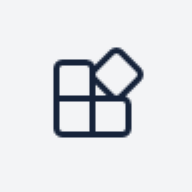
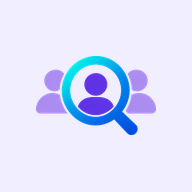
feat: Update agent branding and versioning; enhance deployment documentation

Changed region(s): [[0.1875, 0.2188, 0.8125, 0.7188]]

diff --git a/specs/tasks/todo.md b/specs/tasks/todo.md
@@ -1,6 +1,6 @@
 # Expert Finder demo checklist
 
-The baseline and Graph photo source/documentation are implemented locally. Expert availability is also implemented locally; its host acceptance remains pending. External acceptance remains pending. Checked tasks have local evidence below. Tasks needing real Workbench, tenant or dialog interaction remain unchecked until that acceptance is verified; their code can already be implemented. No automated test suites are being added.
+The baseline, Graph photos and expert availability are implemented locally. User-provided Copilot screenshots now confirm basic deployed invocation/rendering, profile images and an availability timeline in dark theme; broader external acceptance remains pending. Checked tasks have evidence below. Tasks needing additional Workbench, tenant or dialog interaction remain unchecked until those specific checks are verified; their code can already be implemented. No automated test suites are being added.
 
 ## Skill scoped mock data
 
@@ -129,3 +129,13 @@ The user approved the demo convention: Experts is in the tenant root. Selection 
 - Failed, canceled and uncertain attempts do not add confirmed booking records. Existing uncertain-write duplicate protection and error refresh remain intact. Mock mode, source selection, search, photos, contact actions, permissions and dependencies are unchanged; no unit tests or persistent storage were added.
 - npm run build exited 0 in an isolated temporary source copy using the workspace's installed dependencies, without TypeScript/lint errors or warnings. The existing Jest stage found zero tests. Both generated archives passed CRC checks and were copied to the app's usual teams/expert-finder.zip and sharepoint/solution/copilot-expert-finder.sppkg paths. Two initial builds in the app directory failed in Copilot staging while a separate heft start was active; the isolated build avoided the shared temp directory without stopping that server or changing build configuration.
 - README, the conference runbook and existing feature/global specs describe the local booking behavior. No live Graph calls, calendar writes, tenant changes or browser automation were performed. Actual immediate Busy rendering, persistence after stale-Graph Refresh/expert/mode changes, failure/uncertainty behavior and keyboard focus remain pending in Workbench/Copilot.
+
+
+### Agent icons and deployment retry (2026-11-04)
+
+- User-provided screenshots show a natural Copilot-agent prompt rendering the directory inline, three of five results with profile images, fullscreen cards in dark theme and a selected expert's availability timeline. This is observed deployed behavior, not an automated runtime check. New-branding publication, light theme, keyboard/focus, error paths and end-to-end meeting/Busy-refresh behavior in Copilot remain pending; the generic Add to Teams failure is not declared resolved.
+- Validated the user-replaced copilot/color.png (192 × 192 RGB PNG) and copilot/outline.png (32 × 32 RGBA PNG). Visual inspection confirms the intended color mark; outline inspection confirms 355 visible white pixels, 669 fully transparent pixels and transparent corners. The existing manifest already references both filenames. The React header logo is a separate asset.
+- Advanced the app version to 1.0.2 and the SPFx solution version to 1.0.0.2 without changing identities. Found and removed an obsolete tracked teams/expertfinder-agent.zip containing the same app ID at version 1.0.0.2 with default icons; the packager had embedded it alongside the current agent ZIP. A backup was retained outside the repository. Duplicate agent packages are a possible synchronization issue, not a proven explanation of the tenant's 400 response.
+- Final npm run build exited 0 in the actual project folder, without TypeScript/lint errors or warnings. The existing Jest stage found zero tests. Archive verification confirms exactly one embedded agent ZIP, app version 1.0.2 and icon bytes identical to the new source PNGs. No dependencies or permission requests were added.
+- Regenerated /private/tmp/expert-finder-inheritscloud-1.0.2.zip for the optional Teams Admin Center Upload file retry. It retains the release's app identity/version, definitions and new icons, replacing only the runtime MCP placeholder with the inheritscloud tenant/solution URL. All three manifests pass the installed Microsoft schema validator and both ZIP/sppkg integrity checks pass. The regular package retains its deploy-time placeholder for the standard SharePoint synchronization route. No tenant upload, synchronization, permission change or calendar action was performed by the assistant.
+- docs/deployment.md now explains the two icon locations, production build flags, version-state preservation, duplicate ZIP cleanup, manual tenant-bound update route and the observed/pending host evidence.

diff --git a/src/copilot-expert-finder/docs/deployment.md b/src/copilot-expert-finder/docs/deployment.md
@@ -13,6 +13,19 @@ The existing build compiles TypeScript, lints, bundles, expands the declarative 
 
 Component ID: 980d322c-2c03-4d8b-a05a-6b724ee174a1. Solution ID: aa4326b3-eeff-4ca7-8f74-f695935a8bbb. Existing identities are preserved. The toolchain manages the generated Teams manifest version when content changes.
 
+Stop `npm start` before running the production build: both commands share staging folders. The `--production` flags are already included in `npm run build`; no separate `--ship` command is needed.
+
+## Agent branding and update versions
+
+- `copilot/color.png`: 192 × 192 PNG color icon for the agent.
+- `copilot/outline.png`: 32 × 32 PNG with a white symbol and transparent background.
+- `copilot/manifest.json` already references these two filenames. The logo inside the React UI is a separate asset at `src/copilotComponents/expertFinder/assets/expert-finder-logo.png`.
+- Agent branding changes require rebuilding the package, replacing/enabling the sppkg and syncing the baseline agent again. Preserve app/solution/component IDs. Advance the numeric app version in `copilot/manifest.json` and the solution version in `config/package-solution.json`; do not change the declarative-agent schema version as a release counter.
+- Keep `teams/.copilot-agent-hotfix.json` when building from an isolated copy. It holds local version history; omitting it can reset the generated app version. Always inspect the manifest embedded in the final sppkg before uploading.
+- Keep only the current `teams/expert-finder.zip` for this agent. The SPFx packager embeds other ZIP files left in `teams/` too. An obsolete `teams/expertfinder-agent.zip` with the same app ID and version `1.0.0.2` was removed during this update; the next sppkg must contain exactly one agent ZIP.
+
+The 2026-11-04 branding update uses app version `1.0.2` and solution version `1.0.0.2`. Both source icons were visually inspected; PNG dimensions and white/transparent outline pixels were checked locally. Reference: [Microsoft 365 app icon requirements](https://learn.microsoft.com/en-us/microsoft-365/extensibility/schema/root-icons?view=m365-app-1.29).
+
 ## Validate locally in Workbench
 
 ```bash
@@ -33,6 +46,16 @@ The component always checks the tenant root, even when this Workbench is opened 
 6. When changing the baseline agent (for example instructions, descriptions or starters), synchronize the updated baseline as required. Ordinary component/tool parameter changes still require a rebuilt/redeployed solution but use dynamic tool discovery.
 
 If upgrading an already deployed package, increase the solution/package version as required by the tenant before uploading the new build. Keep identities stable. This implementation does not upload, sync, grant permissions, create lists or modify the tenant automatically.
+
+## Manual agent update fallback
+
+If Add to Teams returns a generic server-side error, the app's existing Teams Admin Center details page offers **New version → Upload file**. Use a tenant-bound copy of the generated agent ZIP for that route, not the unmodified `teams/expert-finder.zip`: its `{{TENANT_MCP_URL}}` is normally resolved by SharePoint during synchronization.
+
+For the conference tenant, that runtime URL is `https://inheritscloud.sharepoint.com/_api/mcp/beta/spfx?solutionId=aa4326b3-eeff-4ca7-8f74-f695935a8bbb`. Prepare a separate ZIP that replaces only the placeholder, retaining the app ID, release version, icons and agent definition. Validate all three manifests locally, then select the copy in **Upload file**. Tenant-specific copies are deployment artifacts, not edits to the reusable source manifest. A local schema pass does not establish that the tenant will accept the upload; inspect any service validation response.
+
+On 2026-11-04 the user supplied Copilot screenshots showing natural invocation, inline/fullscreen rendering in dark theme, tenant expert records/profile images and a calendar timeline. These demonstrate a working deployed experience even though Add to Teams reported an error; they do not establish that the newer agent metadata/icon was published. Actual acceptance of the branding update, other themes/keyboard behavior and end-to-end meeting creation remain separate manual checks.
+
+References: [Update a custom app in Teams Admin Center](https://learn.microsoft.com/en-us/microsoftteams/teams-custom-app-policies-and-settings#update-a-custom-app-using-teams-admin-center) and [SPFx agent-to-solution binding](https://learn.microsoft.com/en-us/sharepoint/dev/spfx/copilot/troubleshooting-copilot-ux-components#the-agent-calls-an-old-solution).
 
 ## Graph profile photos
 
